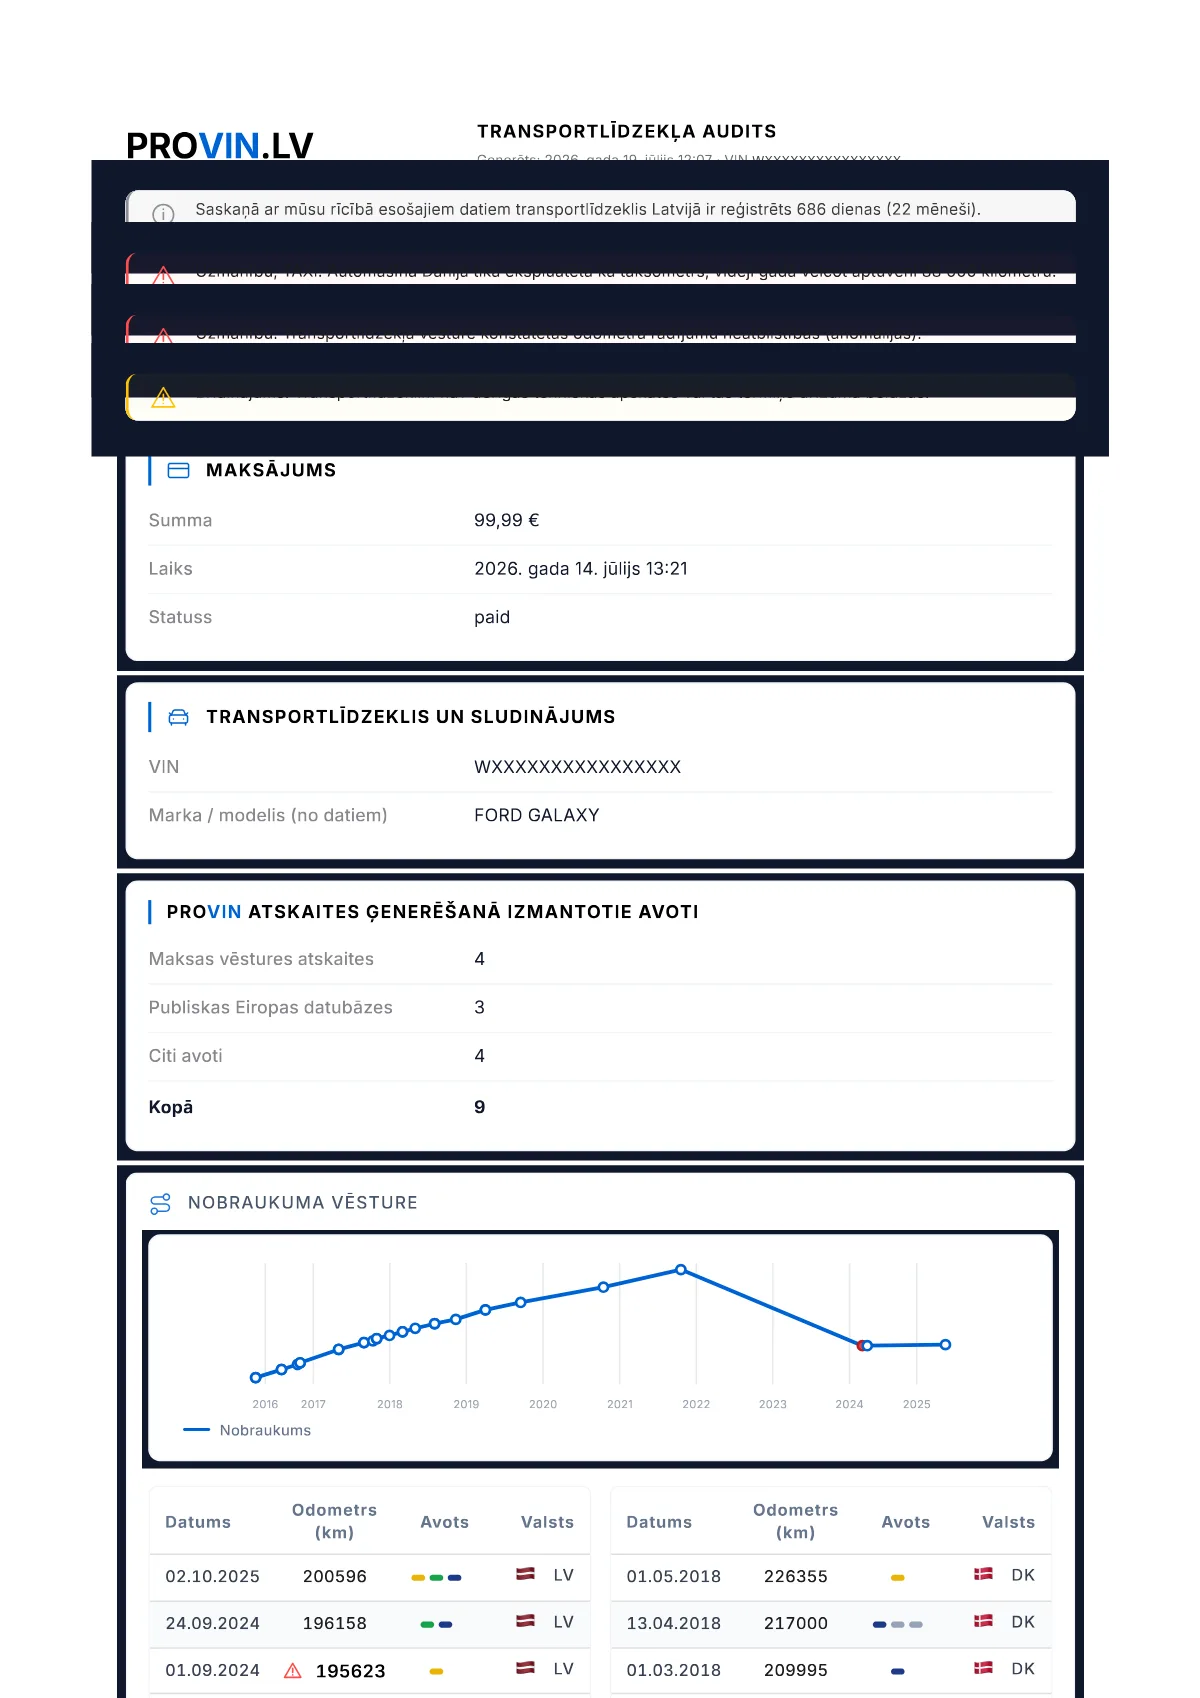
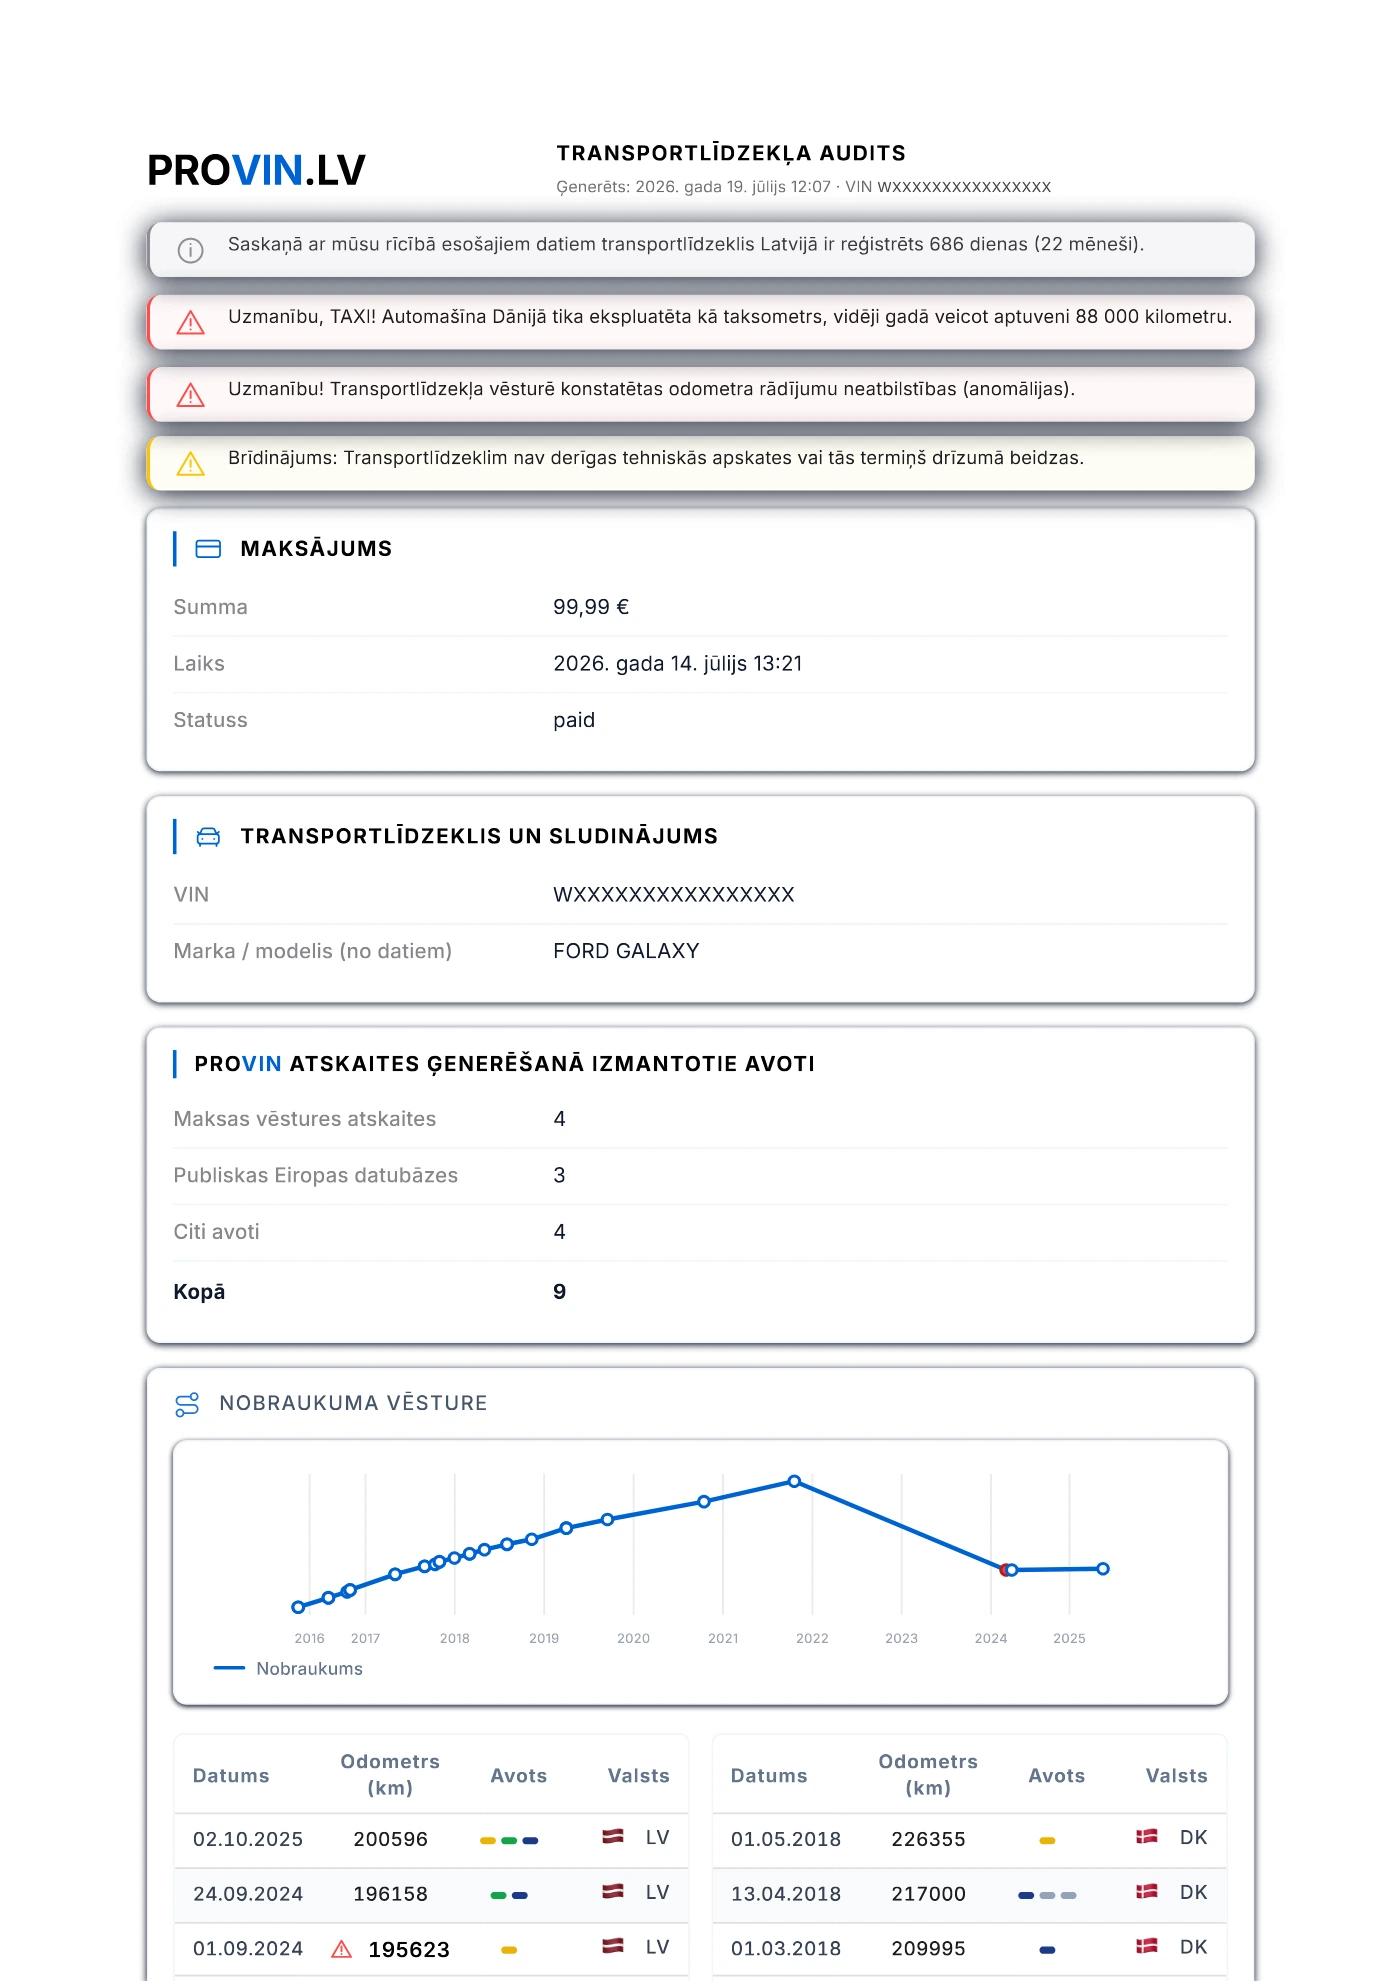
Regenerate mobile PDF page-1 previews with Chromium pdf.js
Replace napi-canvas rasters that crushed dark alert bands; browser-rendered WebPs restore clean original report colors. Cache-bust preview URLs.

Changed region(s): [[0.0617, 0.0936, 0.925, 1.0]]

diff --git a/components/home/SampleReportPreview.tsx b/components/home/SampleReportPreview.tsx
@@ -18,11 +18,14 @@ type Props = {
 /** lg breakpoint — desktop keeps the original scrollable iframe preview. */
 const DESKTOP_MQ = "(min-width: 1024px)";
 
+/** Bust CDN/browser cache when page-1 rasters are regenerated. */
+const MOBILE_PAGE1_ASSET_VERSION = "2";
+
 /** Static first-page raster for mobile (native PDF iframe zooms/steals scroll on iOS). */
 function mobilePreviewImageSrc(pdfHref: string): string | null {
   const path = pdfHref.split("#")[0] ?? "";
   if (!path.endsWith(".pdf")) return null;
-  return `${path.replace(/\.pdf$/i, "-page1.webp")}`;
+  return `${path.replace(/\.pdf$/i, "-page1.webp")}?v=${MOBILE_PAGE1_ASSET_VERSION}`;
 }
 
 /** Defaults to desktop so web never flashes the mobile static image. */
